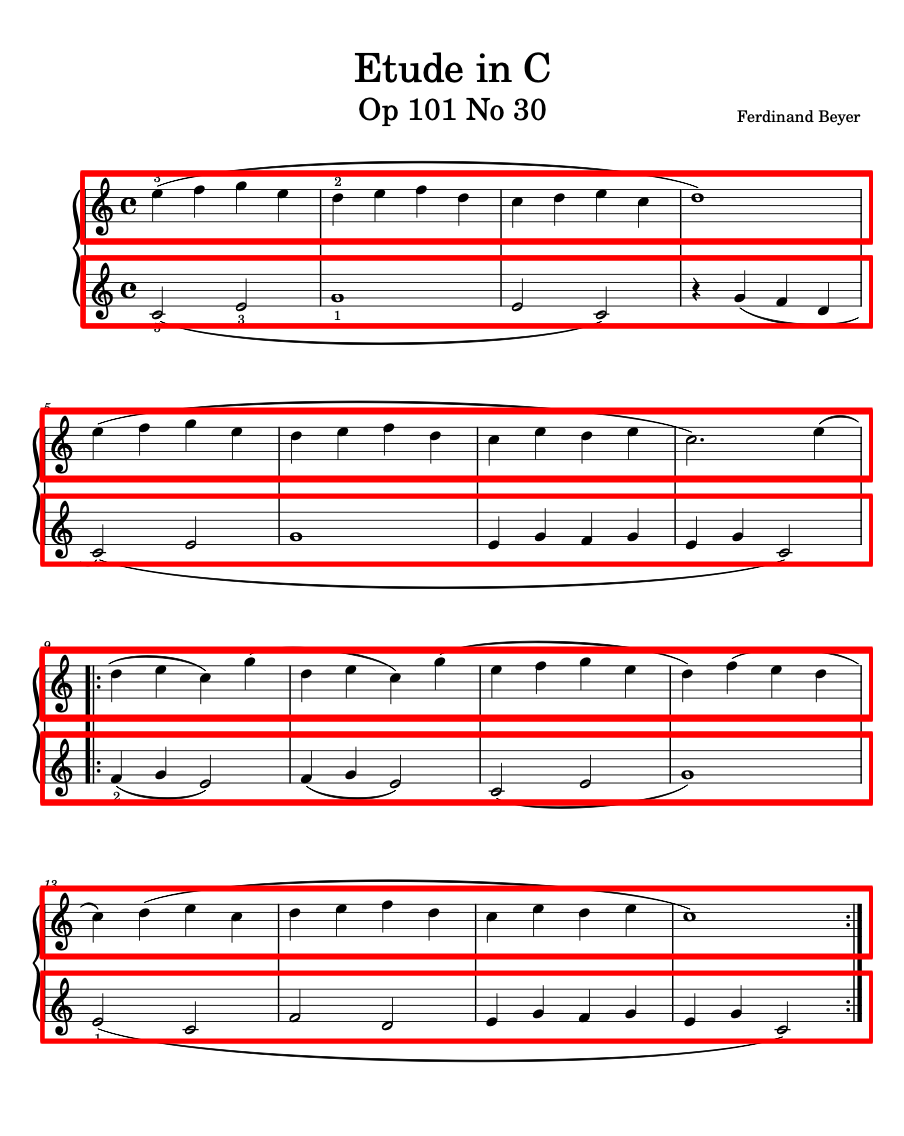
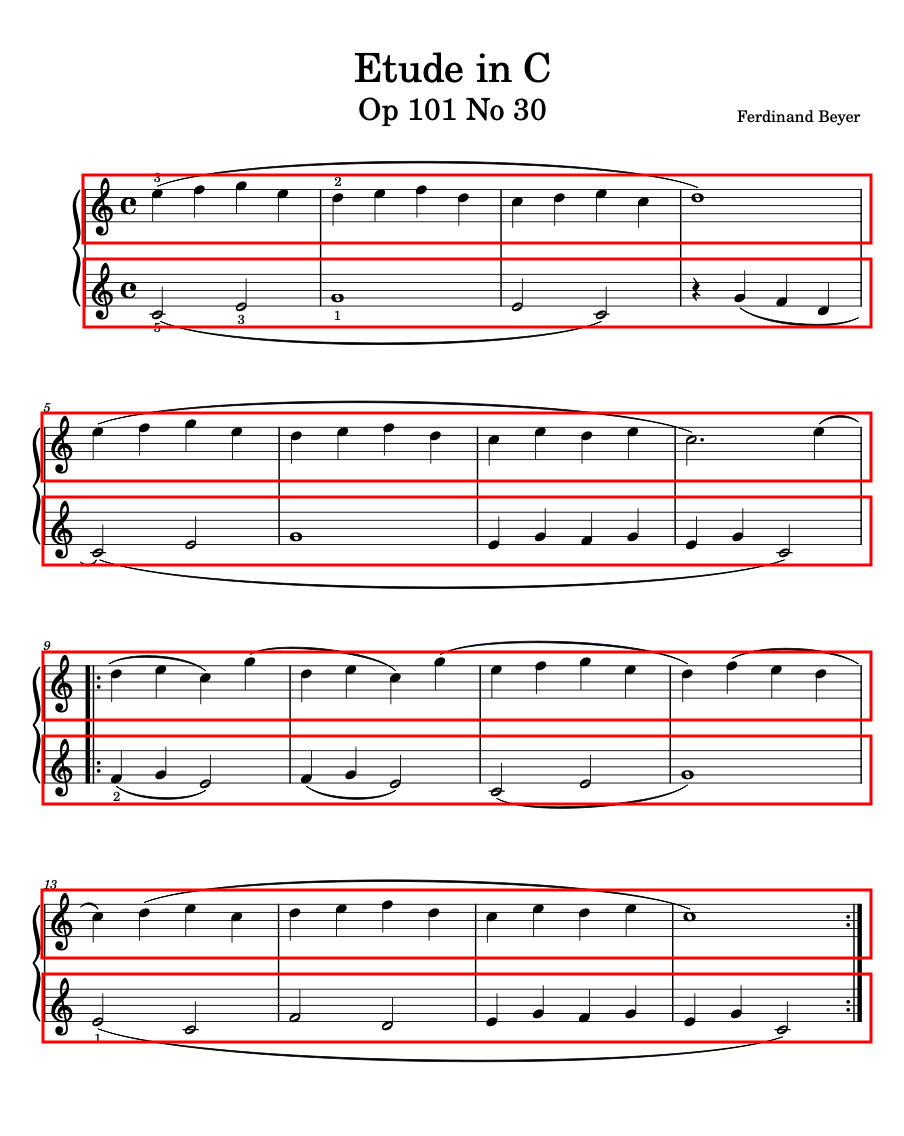
Features - Grabbed the TREBLE CLEF notes only - Chopped it up and grabbed them all individual pieces and stored them   individually into png files of their own
Next
- Extract individual notes and generate notes from them

diff --git a/main.js b/main.js
@@ -4,6 +4,158 @@ const { createCanvas, loadImage } = require('canvas');
 const cv = require('opencv.js');
 const config = require('./config.js');
 
+// Function to apply non-maximum suppression
+function nonMaximumSuppression(boxes, overlapThresh) {
+    if (boxes.length === 0) return [];
+
+    // Initialize the list of picked indexes
+    const pick = [];
+
+    // Sort the bounding boxes by the bottom-right y-coordinate of the bounding box
+    boxes.sort((a, b) => a[1] + a[3] - (b[1] + b[3]));
+
+    while (boxes.length > 0) {
+        // Grab the last rectangle
+        const last = boxes.pop();
+        const keep = [];
+        pick.push(last);
+
+        for (let i = 0; i < boxes.length; i++) {
+            const box = boxes[i];
+            // Calculate the intersection over union (IoU)
+            const xx1 = Math.max(last[0], box[0]);
+            const yy1 = Math.max(last[1], box[1]);
+            const xx2 = Math.min(last[0] + last[2], box[0] + box[2]);
+            const yy2 = Math.min(last[1] + last[3], box[1] + box[3]);
+
+            const w = Math.max(0, xx2 - xx1);
+            const h = Math.max(0, yy2 - yy1);
+            const overlap = (w * h) / (last[2] * last[3]);
+
+            if (overlap < overlapThresh) {
+                keep.push(box);
+            }
+        }
+
+        boxes = keep;
+    }
+
+    return pick;
+}
+
+async function loadTemplates(folderPath) {
+    try {
+        const files = fs.readdirSync(folderPath);
+        const imagePaths = files.filter(file => {
+            const ext = path.extname(file).toLowerCase();
+            return ext === '.png' || ext === '.jpg' || ext === '.jpeg';
+        }).map(file => path.join(folderPath, file));
+
+        const templates = [];
+        for (const imagePath of imagePaths) {
+            const image = await loadImage(imagePath);
+            const canvas = createCanvas(image.width, image.height);
+            const ctx = canvas.getContext('2d');
+            ctx.drawImage(image, 0, 0, image.width, image.height);
+            const imageData = ctx.getImageData(0, 0, image.width, image.height);
+            const mat = cv.matFromImageData(imageData);
+            cv.cvtColor(mat, mat, cv.COLOR_RGBA2GRAY);
+            templates.push(mat);
+        }
+
+        return templates;
+    } catch (error) {
+        console.error('Error loading templates:', error);
+        throw error;
+    }
+}
+
+async function detectTrebleClefs() {
+    try {
+        const src = await loadImage(config.inputPath);
+        const canvas = createCanvas(src.width, src.height);
+        const ctx = canvas.getContext('2d');
+        ctx.drawImage(src, 0, 0, src.width, src.height);
+
+        // Convert image to grayscale
+        const imageData = ctx.getImageData(0, 0, src.width, src.height);
+        const grayMat = cv.matFromImageData(imageData);
+        cv.cvtColor(grayMat, grayMat, cv.COLOR_RGBA2GRAY);
+
+        // Load templates from the folder
+        const templates = await loadTemplates(config.templateFolder);
+
+        // Ensure the output directory exists
+        if (!fs.existsSync(config.outputNotesFolder)) {
+            fs.mkdirSync(config.outputNotesFolder, { recursive: true });
+        }
+
+        let noteCount = 1;
+        const rectangles = [];
+
+        for (const templateMat of templates) {
+            // Check if the template is larger than the source image
+            if (templateMat.cols > grayMat.cols || templateMat.rows > grayMat.rows) {
+                console.warn(`Skipping template ${templateMat.cols}x${templateMat.rows} as it is larger than the source image.`);
+                continue;
+            }
+
+            // Match template
+            const result = new cv.Mat();
+            cv.matchTemplate(grayMat, templateMat, result, cv.TM_CCOEFF_NORMED);
+
+            // Thresholding to find good matches
+            const resultData = result.data32F;
+            for (let i = 0; i < resultData.length; i++) {
+                if (resultData[i] >= config.threshold) {
+                    const x = i % result.cols;
+                    const y = Math.floor(i / result.cols);
+                    const width = result.cols - x;
+                    rectangles.push([x, y, width, templateMat.rows]);
+                }
+            }
+        }
+
+        // Apply non-maximum suppression to filter overlapping rectangles
+        const pickedRectangles = nonMaximumSuppression(rectangles, 0.3);
+
+        // Draw and save the filtered rectangles
+        for (const [x, y, width, height] of pickedRectangles) {
+            ctx.strokeStyle = 'red';
+            ctx.lineWidth = 3;
+            ctx.strokeRect(x, y, width, height);
+
+            // Extract and save the note image
+            const noteCanvas = createCanvas(width, height);
+            const noteCtx = noteCanvas.getContext('2d');
+            noteCtx.drawImage(canvas, x, y, width, height, 0, 0, width, height);
+            const noteOutPath = path.join(config.outputNotesFolder, `note_${noteCount}.png`);
+            const noteOut = fs.createWriteStream(noteOutPath);
+            const noteStream = noteCanvas.createPNGStream();
+            noteStream.pipe(noteOut);
+            noteOut.on('finish', () => console.log(`The PNG file was created: ${noteOutPath}`));
+            noteCount++;
+        }
+
+        // Save the result
+        const out = fs.createWriteStream(config.outputPath);
+        const stream = canvas.createPNGStream();
+        stream.pipe(out);
+        out.on('finish', () => console.log('The PNG file was created.'));
+    } catch (error) {
+        console.error('Error detecting treble clefs:', error);
+    }
+}
+
+detectTrebleClefs();
+
+/*
+const fs = require('fs');
+const path = require('path');
+const { createCanvas, loadImage } = require('canvas');
+const cv = require('opencv.js');
+const config = require('./config.js');
+
 async function loadTemplates(folderPath) {
     try {
         const files = fs.readdirSync(folderPath);
@@ -81,3 +233,5 @@ async function detectTrebleClefs() {
 }
 
 detectTrebleClefs();
+
+*/

diff --git a/config.js b/config.js
@@ -1,6 +1,7 @@
 module.exports = {
   inputPath: './sheets/png/etude-in-c-101-30.png',
   outputPath: './output/final-etude-in-c-101-30.png',
+  outputNotesFolder: './output/etude/',
   templateFolder: './trebles',
   threshold: 0.5,
 };
